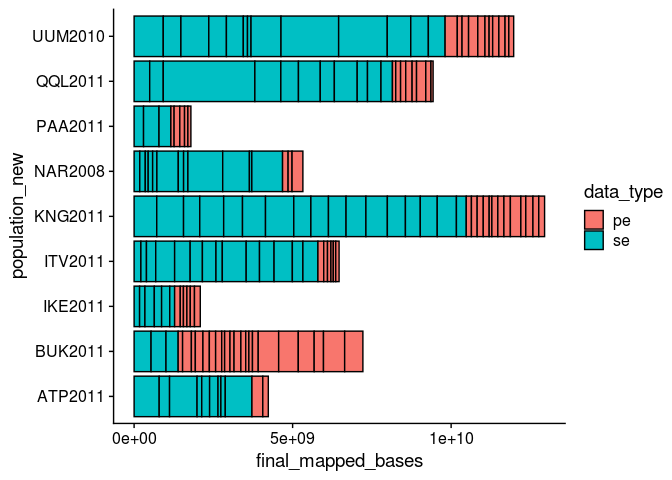
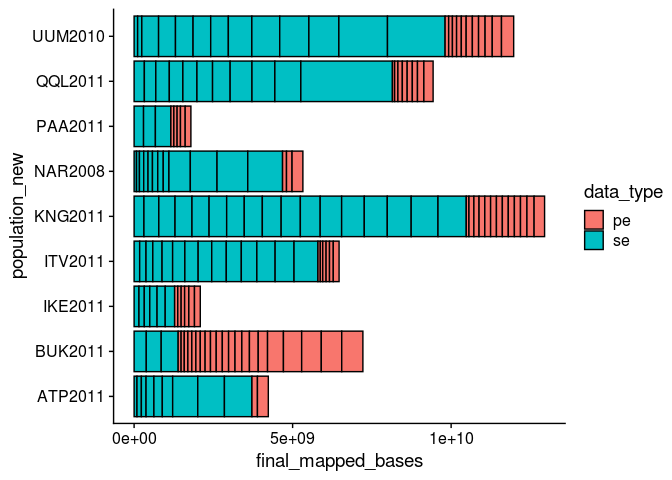
added summary stats

diff --git a/markdown/pipeline.md b/markdown/pipeline.md
@@ -63,11 +63,12 @@ sample_table_merged %>%
 
 ``` r
 ## Number of bases
-base_count <- read_tsv("/workdir/cod/greenland-cod/sample_lists/count_merged.tsv") %>%
+base_count <- read_tsv("../sample_lists/count_merged_old.tsv") %>%
   dplyr::select(sample_id_corrected, final_mapped_bases)
 sample_table_merged %>%
   left_join(base_count) %>%
-  mutate(sample_id_corrected=fct_reorder(sample_id_corrected, data_type)) %>%
+  arrange(data_type, desc(final_mapped_bases)) %>%
+  mutate(sample_id_corrected=as_factor(sample_id_corrected)) %>%
   ggplot(aes(x=population_new, y=final_mapped_bases, fill=data_type, group=sample_id_corrected)) +
   geom_col(color="black") +
   theme_cowplot() +
@@ -85,6 +86,19 @@ sample_table_merged %>%
 ```
 
 ![](pipeline_files/figure-gfm/unnamed-chunk-2-3.png)<!-- -->
+
+``` r
+sample_table_merged %>%
+  left_join(base_count) %>%
+  group_by(data_type) %>%
+  summarise(sample_size=n(), avearge_final_coverage=mean(final_mapped_bases)/0.67/10^9)
+```
+
+    ## # A tibble: 2 x 3
+    ##   data_type sample_size avearge_final_coverage
+    ##   <chr>           <int>                  <dbl>
+    ## 1 pe                 75                  0.299
+    ## 2 se                 88                  0.788
 
 ``` r
 # Write the objects created above
